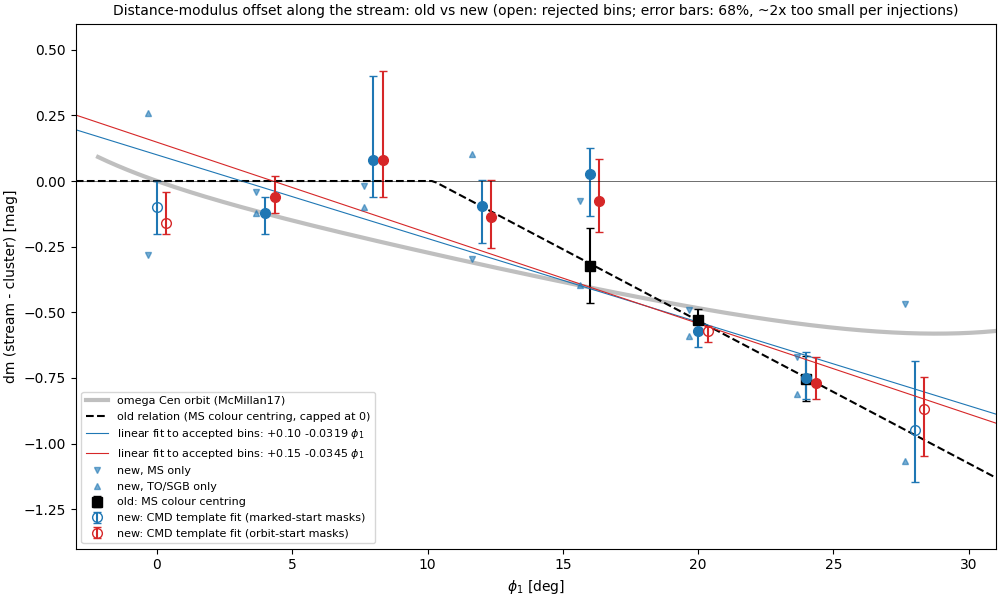
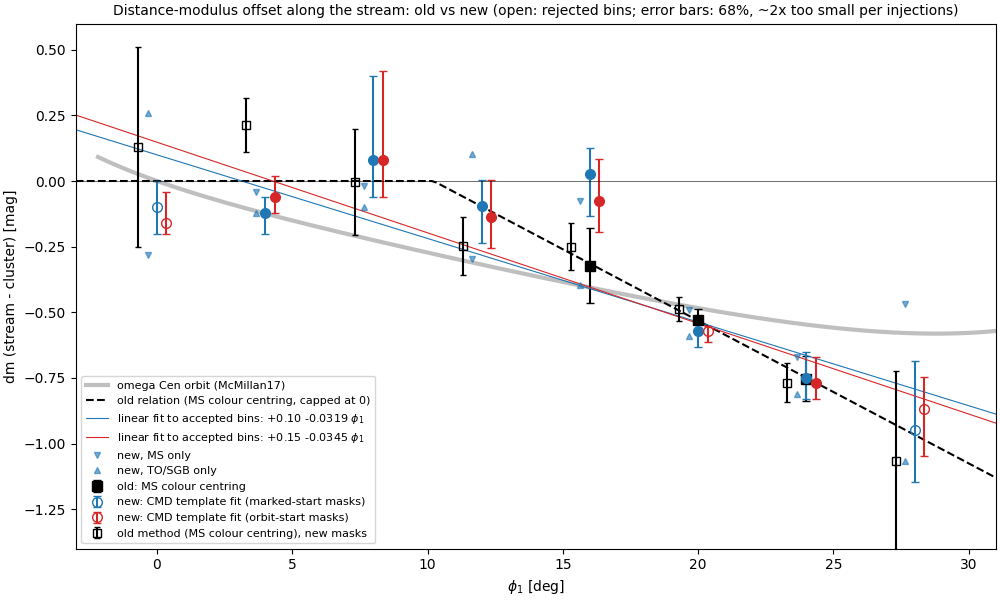
stream_dm_fit.py: MS colour centring with the new masks and per-pixel background in every bin; added to the dm comparison plot

diff --git a/bin/streams/stream_dm_fit.py b/bin/streams/stream_dm_fit.py
@@ -57,7 +57,7 @@ def pm_mask(S, R, shift=0.):
     return m
 
 
-def hess_on_bg(S, R, sel, a0, a1):
+def hess_on_bg(S, R, sel, a0, a1, EC=EC, EG=EG, smooth=1.5):
     """on-window Hess diagram and per-pixel background (interpolated across dphi2 from the off-sky bands)."""
     G = np.array(R["grid"]); u = S["phi1"]; yv = S["dphi2"]-np.interp(u, G, R["sky_window"]["centre"]); hw = np.interp(u, G, R["sky_window"]["half_width"])
     k = sel & (u >= a0) & (u < a1); on = k & (np.abs(yv) < hw); h = float(np.median(hw[on])) if on.any() else 3.
@@ -67,7 +67,27 @@ def hess_on_bg(S, R, sel, a0, a1):
     ob = offb & (H3.sum((1, 2)) > 0); dg = 3 if ((ob & (cb < 0)).sum() >= 3 and (ob & (cb > 0)).sum() >= 3) else 1
     coef = np.tensordot(np.linalg.pinv(np.vander(cb[ob], dg)), H3[ob], 1); yy = np.linspace(-h, h, 41)
     B = np.clip(np.tensordot(np.vander(yy, dg), coef, 1), 0, None).mean(0)*(2*h)
-    return Hn, gaussian_filter(B, 1.5), h
+    return Hn, gaussian_filter(B, smooth), h
+
+
+def ms_centring(S, R, sel, a0, a1, M, nboot=200, seed=5):
+    """Old estimator with the new masks/background: dm at which the background-subtracted mean MS colour residual (G0 < 19.6,
+    template-frame G0 >= 17.8, |r| < 0.15) crosses zero. Background per pixel on a fine grid (0.01 x 0.05 mag); error from
+    Poisson resampling of the on-window counts."""
+    ec, eg = np.arange(0.3, 1.4001, 0.01), np.arange(15.5, 19.6001, 0.05); Hn, B, _ = hess_on_bg(S, R, sel, a0, a1, ec, eg, smooth=3.)
+    cc, gg = np.meshgrid(0.5*(ec[1:]+ec[:-1]), 0.5*(eg[1:]+eg[:-1]), indexing="ij"); cc, gg = cc.ravel(), gg.ravel()
+    dms = np.arange(-1.2, 0.41, 0.02)
+    def mean_r(H):
+        out = []
+        for d in dms:
+            Gt = gg-d; r = cc-(M.ms_fn(Gt)+np.polyval(M.P["dc_ms"], np.minimum(Gt, 19.6))); w = (Gt >= 17.8) & (gg < 19.6) & (np.abs(r) < 0.15)
+            ex = (H.ravel()-B.ravel())*w; out.append(np.sum(ex*r)/max(np.sum(ex), 1.))
+        out = np.array(out); j = np.where(np.diff(np.sign(out)) != 0)[0]
+        if len(j) == 0:
+            return np.nan
+        j = j[0]; return float(dms[j]-out[j]*(dms[j+1]-dms[j])/(out[j+1]-out[j]))
+    best = mean_r(Hn); rng = np.random.default_rng(seed); bs = np.array([mean_r(rng.poisson(Hn)) for _ in range(nboot)])
+    return dict(dm=best, err=float(np.nanstd(bs)), fail=float(np.mean(~np.isfinite(bs))))
 
 
 def template(clus, dm, idx=None):
@@ -102,6 +122,8 @@ def main():
     P = json.loads((ROOT/"results/plot_data/gaia_cmd_mask.json").read_text()); coef0 = P["dm_relation"]["coef"]
     dm_rel = lambda p: float(np.minimum(np.polyval(coef0, p), 0.))
     print(f"cluster template: {len(clus['C'][0])} stars, PM control {len(clus['F'][0])}", flush=True)
+    from gaia_cmd_mask import CMDMask
+    global MSK; MSK = CMDMask(P)
     sel, nulls = pm_mask(S, R), [pm_mask(S, R, shift=sh) for sh in (-6., 6.)]; seln = nulls[1]
     if "--inject" in sys.argv:
         return inject(S, R, clus, seln, dm_rel)
@@ -111,10 +133,11 @@ def main():
         res = {k: profile(Hn, B, clus, dm0, m) for k, m in D.items()}
         nul = max((profile(*hess_on_bg(S, R, sn, a0, a1)[:2], clus, dm0, D["all"]) for sn in nulls), key=lambda r_: r_["sig"])
         acc = res["all"]["sig"] >= 3 and nul["sig"] < 2 and not res["all"]["edge"]
-        rows.append(dict(phi1=c, dm0=dm0, accepted=acc, null_sig=nul["sig"], null_dm=nul["dm"], **{f"{k}_{q}": v[q] for k, v in res.items() for q in ("dm", "lo", "hi", "A", "sig", "edge")}))
+        mc = ms_centring(S, R, sel, a0, a1, MSK)
+        rows.append(dict(phi1=c, dm0=dm0, accepted=acc, null_sig=nul["sig"], null_dm=nul["dm"], msc_dm=mc["dm"], msc_err=mc["err"], msc_fail=mc["fail"], **{f"{k}_{q}": v[q] for k, v in res.items() for q in ("dm", "lo", "hi", "A", "sig", "edge")}))
         r = res["all"]; print(f"phi1 {a0}-{a1}: dm {r['dm']:+.2f} [{r['lo']:+.2f}, {r['hi']:+.2f}] A {r['A']:.0f} sig {r['sig']:.1f}{' EDGE' if r['edge'] else ''} | "
                               f"MS {res['ms']['dm']:+.2f} ({res['ms']['sig']:.1f}) TO/SGB {res['tosgb']['dm']:+.2f} ({res['tosgb']['sig']:.1f}) | "
-                              f"null sig {nul['sig']:.1f} dm {nul['dm']:+.2f} | old {dm0:+.2f} -> {'ACCEPT' if acc else 'reject'}", flush=True)
+                              f"null sig {nul['sig']:.1f} dm {nul['dm']:+.2f} | MS centring {mc['dm']:+.2f} +- {mc['err']:.2f} | old {dm0:+.2f} -> {'ACCEPT' if acc else 'reject'}", flush=True)
         for k, col in (("all", "k"), ("ms", "C0"), ("tosgb", "C3")):
             a.plot(res[k]["dms"], res[k]["L"], "-", color=col, label=f"{k}: {res[k]['dm']:+.2f} ({res[k]['sig']:.1f}$\\sigma$)")
         a.plot(nul["dms"], nul["L"], ":", color="0.5", label=f"null: {nul['sig']:.1f}$\\sigma$"); a.axvline(dm0, color="C2", lw=0.8, ls="--", label=f"old relation {dm0:+.2f}")

diff --git a/bin/streams/stream_dm_compare.py b/bin/streams/stream_dm_compare.py
@@ -29,6 +29,8 @@ for R, off, col, lab in ((new, 0., "C0", "new: CMD template fit (marked-start ma
         ax.errorbar(x, r["all_dm"], yerr=e, fmt="o", color=col, mfc=col if r["accepted"] else "none", ms=7, capsize=3, label=lab if i == 0 else None)
     cf = R["relation"]["coef"]; ax.plot(ph, np.polyval(cf, ph), "-", color=col, lw=0.8, label=f"linear fit to accepted bins: {cf[1]:+.2f} {cf[0]:+.4f} $\\phi_1$")
 for i, r in enumerate(new["bins"]):
+    ax.errorbar(r["phi1"]-0.7, r["msc_dm"], yerr=r["msc_err"], fmt="s", color="k", mfc="none", ms=6, capsize=2, label="old method (MS colour centring), new masks" if i == 0 else None)
+for i, r in enumerate(new["bins"]):
     ax.plot(r["phi1"]-0.35, r["ms_dm"], "v", color="C0", ms=5, alpha=0.6, label="new, MS only" if i == 0 else None)
     ax.plot(r["phi1"]-0.35, r["tosgb_dm"], "^", color="C0", ms=5, alpha=0.6, label="new, TO/SGB only" if i == 0 else None)
 ax.axhline(0, color="k", lw=0.4); ax.set(xlabel=r"$\phi_1$ [deg]", ylabel="dm (stream - cluster) [mag]", xlim=(-3, 31), ylim=(-1.4, 0.6),
